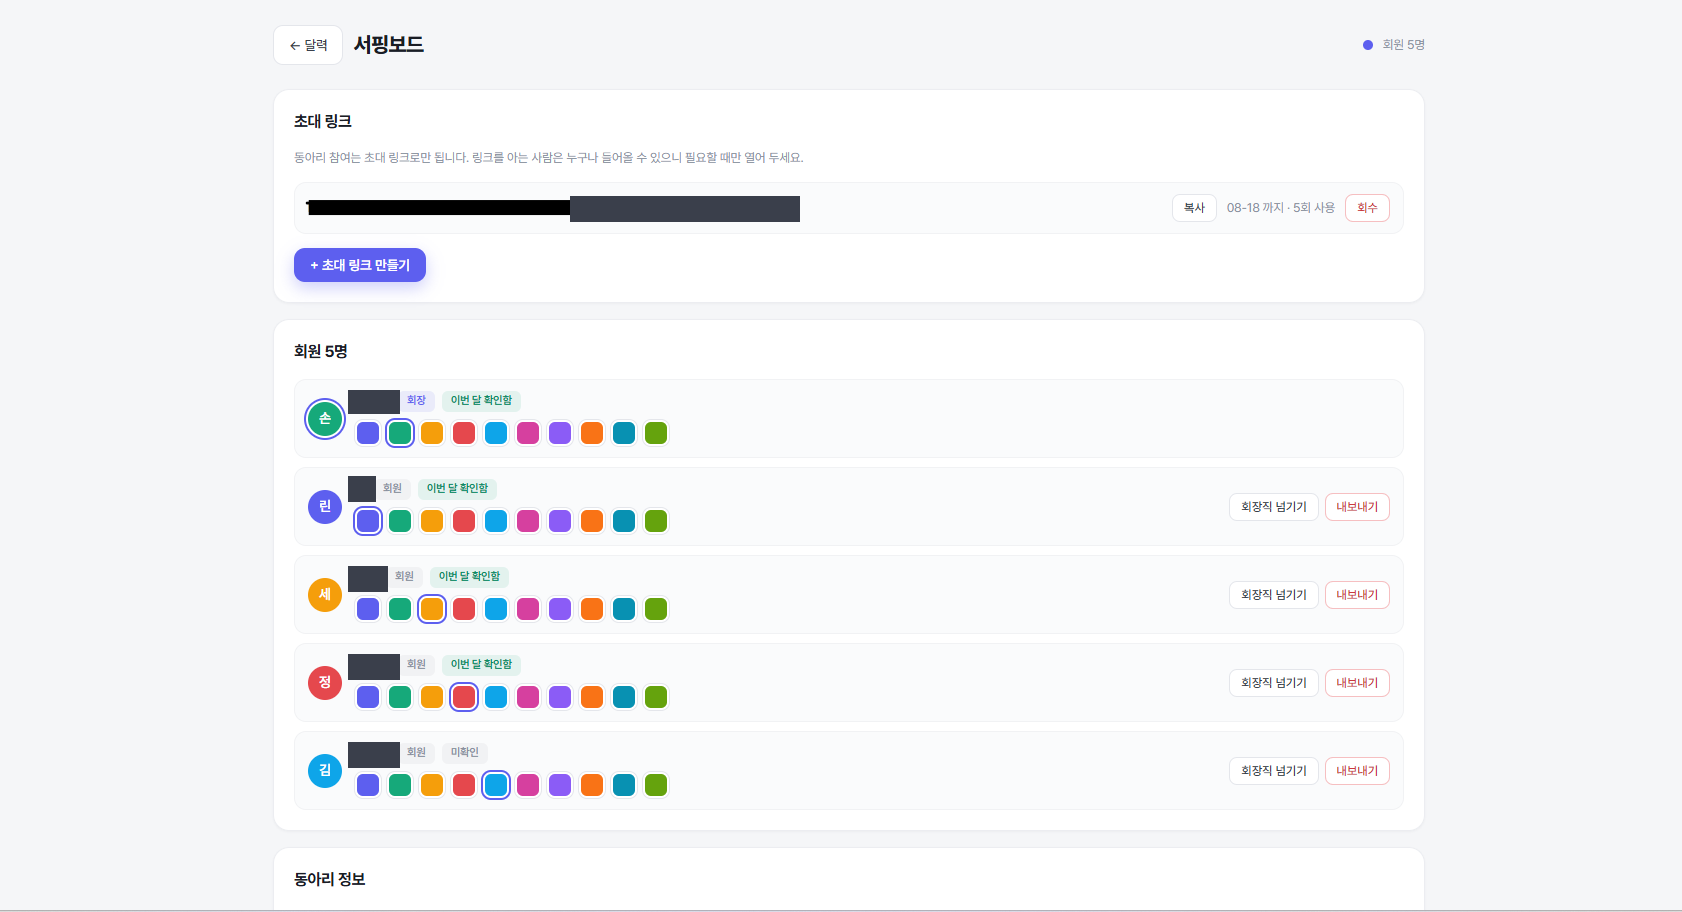
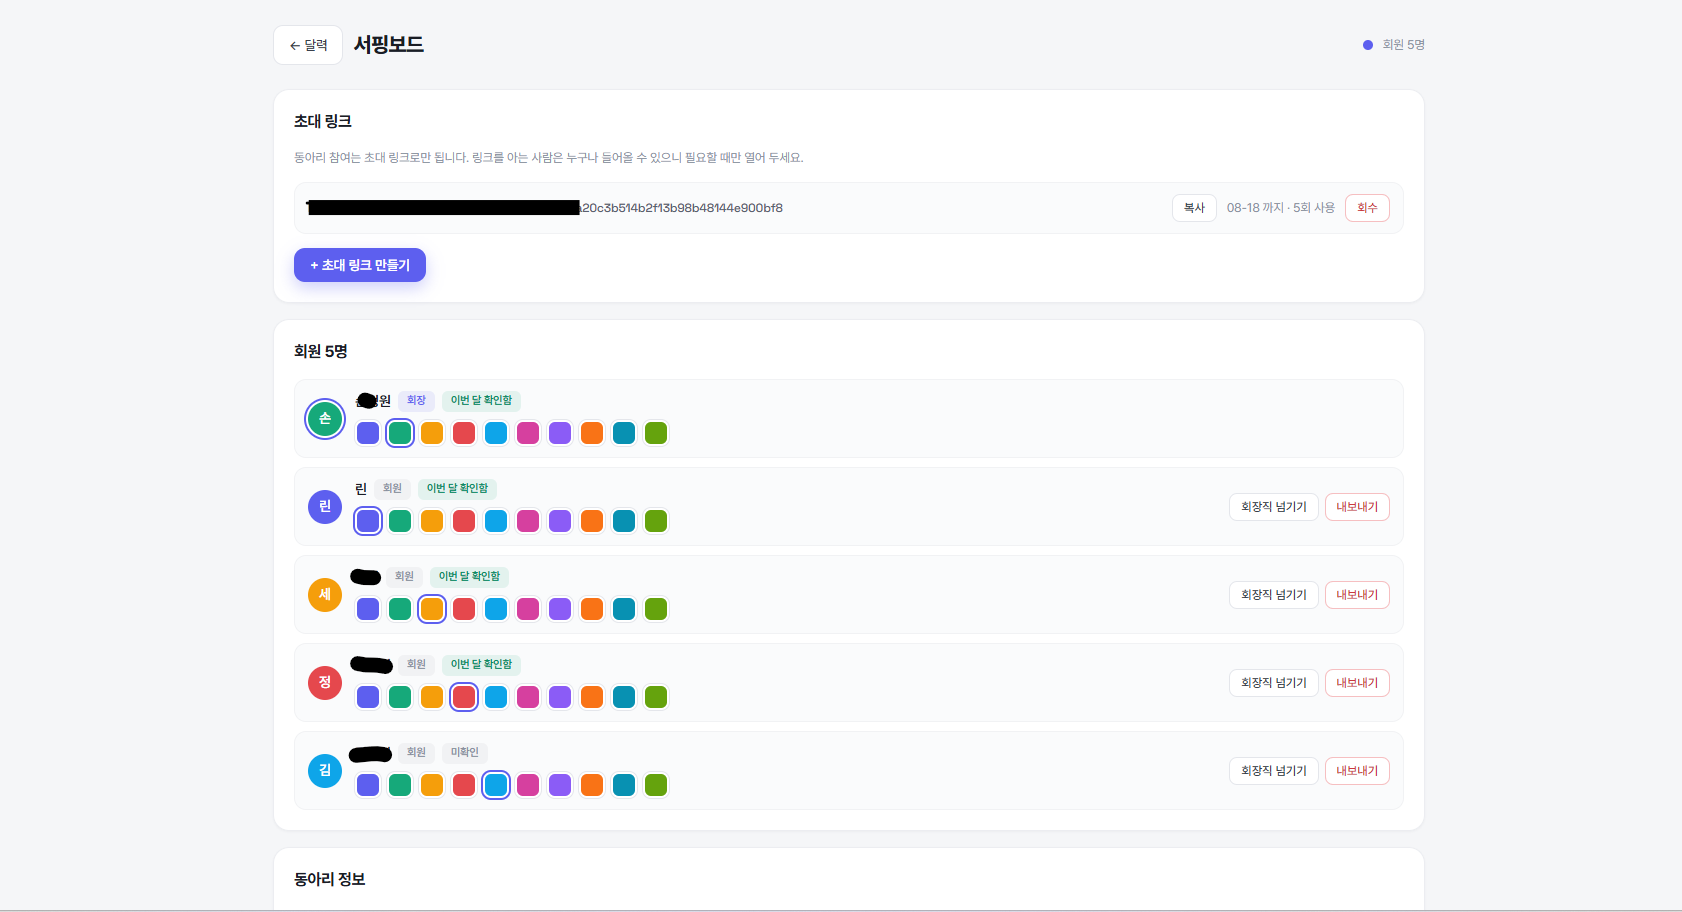
README 화면 섹션을 세로 1열로 변경
2x2 표 배치는 이미지가 너무 작게 보여서, 스크린샷 4장을
전체 너비로 세로로 늘어놓도록 수정.

admin-console.png 는 작성자가 직접 마스킹한 버전으로 되돌림.

diff --git a/README.md b/README.md
@@ -80,48 +80,35 @@ npm run logs
 
 ## 📸 화면
 
-<table>
-<tr>
-<td width="50%">
+### 로그인 · 회원가입
 
-**로그인 · 회원가입**
+누구나 가입할 수 있고, 동아리 참여는 초대 링크로만 됩니다.
 
-<img src="readme-assets/login.png" alt="로그인 화면"/>
+<img src="readme-assets/login.png" alt="로그인 화면" width="100%"/>
 
-누구나 가입할 수 있고, 동아리 참여는 초대 링크로만.
+<br/>
 
-</td>
-<td width="50%">
+### 내 동아리
 
-**내 동아리**
+속한 동아리와 이번 달 확인이 필요한 개수를 한눈에 봅니다.
 
-<img src="readme-assets/group-list.png" alt="동아리 목록 화면"/>
+<img src="readme-assets/group-list.png" alt="동아리 목록 화면" width="100%"/>
 
-속한 동아리와 이번 달 확인 필요 개수를 한눈에.
+<br/>
 
-</td>
-</tr>
-<tr>
-<td width="50%">
+### 동아리 채팅
 
-**동아리 채팅**
+달력 옆 접이식 사이드 패널(380px). @멘션, 안 읽은 개수, 메시지 수정·삭제.
 
-<img src="readme-assets/chat.png" alt="채팅 사이드 패널"/>
+<img src="readme-assets/chat.png" alt="채팅 사이드 패널" width="100%"/>
 
-달력 옆 접이식 패널(380px). @멘션과 안 읽음 개수 표시.
+<br/>
 
-</td>
-<td width="50%">
+### 동아리 관리
 
-**동아리 관리**
+초대 링크 발급·회수, 회원 색상 지정, 회장직 위임, 내보내기.
 
-<img src="readme-assets/admin-console.png" alt="동아리 관리 화면"/>
-
-초대 링크 발급·회수, 회원 색상, 회장직 위임, 내보내기.
-
-</td>
-</tr>
-</table>
+<img src="readme-assets/admin-console.png" alt="동아리 관리 화면" width="100%"/>
 
 <br/>
 
